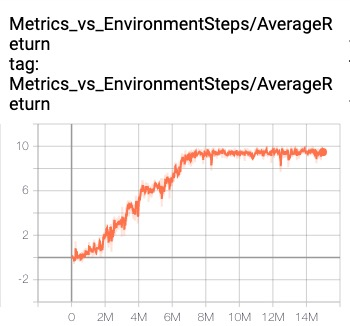
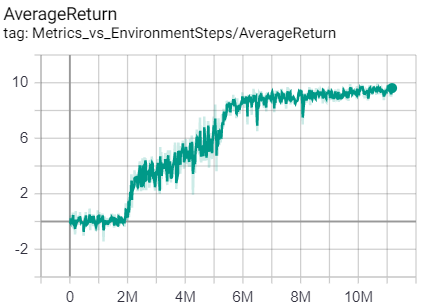
Update traing curve and video for merlin_dmlab_collect_good_objects

Changed region(s): [[0.0, 0.0, 1.0, 0.9967]]

diff --git a/alf/layers.py b/alf/layers.py
@@ -302,3 +302,114 @@ class Reshape(nn.Module):
 
     def forward(self, x):
         return x.reshape(x.shape[0], *self._shape)
+
+
+def _tuplify2d(x):
+    if isinstance(x, tuple):
+        assert len(x) == 2
+        return x
+    return (x, x)
+
+
+def _conv_transpose_2d(in_channels,
+                       out_channels,
+                       kernel_size,
+                       stride=1,
+                       padding=0):
+    # need output_padding so that output_size is stride * input_size
+    # See https://pytorch.org/docs/stable/nn.html#torch.nn.ConvTranspose2d
+    output_padding = stride + 2 * padding - kernel_size
+    return nn.ConvTranspose2d(
+        in_channels,
+        out_channels,
+        kernel_size,
+        stride=stride,
+        padding=padding,
+        output_padding=output_padding)
+
+
+@gin.configurable(whitelist=['v1_5', 'with_batch_normalization'])
+class BottleneckBlock(nn.Module):
+    """Bottleneck block for ResNet.
+
+    We allow two slightly different architectures:
+    * v1: Placing the stride at the first 1x1 convolution as described in the 
+      original ResNet paper `Deep residual learning for image recognition 
+      <https://arxiv.org/abs/1512.03385>`_.
+    * v1.5: Placing the stride for downsampling at 3x3 convolution. This variant
+      is also known as ResNet V1.5 and improves accuracy according to
+      `<https://ngc.nvidia.com/catalog/model-scripts/nvidia:resnet_50_v1_5_for_pytorch>`_.
+    """
+
+    def __init__(self,
+                 in_channels,
+                 kernel_size,
+                 filters,
+                 stride,
+                 transpose=False,
+                 v1_5=True,
+                 with_batch_normalization=True):
+        """
+        Args:
+            kernel_size (int): the kernel size of middle layer at main path
+            filters (int): the filters of 3 layer at main path
+            stride (int): stride for this block.
+            transpose (bool): a bool indicate using ``Conv2D`` or ``Conv2DTranspose``.
+                If two BottleneckBlock layers ``L`` and ``LT`` are constructed
+                with the same arguments except ``transpose``, it is gauranteed that 
+                ``LT(L(x)).shape == x.shape`` if ``x.shape[-2:]`` can be divided
+                by ``stride``.
+            v1_5 (bool): whether to use the ResNet V1.5 structure
+            with_batch_normalization (bool): whether to include batch normalization.
+                Note that standard ResNet uses batch normalization.
+        Return:
+            Output tensor for the block
+        """
+        super().__init__()
+        filters1, filters2, filters3 = filters
+
+        conv_fn = _conv_transpose_2d if transpose else nn.Conv2d
+
+        padding = (kernel_size - 1) // 2
+        if v1_5:
+            a = conv_fn(in_channels, filters1, 1)
+            b = conv_fn(filters1, filters2, kernel_size, stride, padding)
+        else:
+            a = conv_fn(in_channels, filters1, 1, stride)
+            b = conv_fn(filters1, filters2, kernel_size, 1, padding)
+
+        nn.init.kaiming_normal_(a.weight.data)
+        nn.init.zeros_(a.bias.data)
+        nn.init.kaiming_normal_(b.weight.data)
+        nn.init.zeros_(b.bias.data)
+
+        c = conv_fn(filters2, filters3, 1)
+        nn.init.kaiming_normal_(c.weight.data)
+        nn.init.zeros_(c.bias.data)
+
+        s = conv_fn(in_channels, filters3, 1, stride)
+        nn.init.kaiming_normal_(s.weight.data)
+        nn.init.zeros_(s.bias.data)
+
+        if with_batch_normalization:
+            core_layers = nn.Sequential(a, nn.BatchNorm2d(filters1),
+                                        nn.ReLU(), b, nn.BatchNorm2d(filters2),
+                                        nn.ReLU(), c, nn.BatchNorm2d(filters3))
+            shortcut_layers = nn.Sequential(s, nn.BatchNorm2d(filters3))
+        else:
+            core_layers = nn.Sequential(a, nn.ReLU(), b, nn.ReLU(), c)
+            shortcut_layers = s
+
+        self._core_layers = core_layers
+        self._shortcut_layers = shortcut_layers
+
+    def forward(self, inputs):
+        core = self._core_layers(inputs)
+        shortcut = self._shortcut_layers(inputs)
+
+        return nn.functional.relu(core + shortcut)
+
+    def calc_output_shape(self, input_shape):
+        x = torch.zeros(1, *input_shape)
+        y = self.forward(x)
+        return y.shape[1:]

diff --git a/alf/algorithms/merlin_algorithm.py b/alf/algorithms/merlin_algorithm.py
@@ -35,7 +35,7 @@ from alf.networks import EncodingNetwork, StackedLSTMCell
 from alf.networks import ActorDistributionNetwork, ValueNetwork
 from alf.networks.action_encoder import SimpleActionEncoder
 from alf.nest import flatten, map_structure
-from alf.utils import common, dist_utils, math_ops, resnet50_block
+from alf.utils import common, dist_utils, math_ops
 
 MBPState = namedtuple(
     "MBPState",
@@ -353,11 +353,13 @@ class MerlinAlgorithm(OnPolicyAlgorithm):
     Wayne et al "Unsupervised Predictive Memory in a Goal-Directed Agent" arXiv:1803.10760
 
     Current differences:
-    * no action encoding and decoding
-    * no retroactive memory update
-    * no prediction of state-action value
-    * value prediction does not use action distribution as feature
-    * no q-value prediction
+
+    * No action encoding and decoding
+    * No retroactive memory update
+    * No prediction of state-action value
+    * Value prediction does not use action distribution as feature.
+    * No q-value prediction
+    * Image encoding and decoding use batch-norm. The paper didn't use.
     """
 
     def __init__(self,
@@ -494,7 +496,7 @@ class ResnetEncodingNetwork(alf.networks.Network):
         in_channels = input_tensor_spec.shape[0]
         shape = input_tensor_spec.shape
         for stride in [2, 1, 2, 1, 2, 1]:
-            res_block = resnet50_block.BottleneckBlock(
+            res_block = alf.layers.BottleneckBlock(
                 in_channels=in_channels,
                 kernel_size=3,
                 filters=(64, 32, 64),
@@ -543,7 +545,7 @@ class ResnetDecodingNetwork(alf.networks.Network):
 
         for stride in reversed([2, 1, 2, 1, 2, 1]):
             dec_layers.append(
-                resnet50_block.BottleneckBlock(
+                alf.layers.BottleneckBlock(
                     in_channels=64,
                     kernel_size=3,
                     filters=(64, 32, 64),

diff --git a/alf/algorithms/algorithm.py b/alf/algorithms/algorithm.py
@@ -432,9 +432,21 @@ class Algorithm(nn.Module):
 
             local_metadata = {} if metadata is None else metadata.get(
                 prefix[:-1], {})
-            module._load_from_state_dict(state_dict, prefix, local_metadata,
-                                         True, missing_keys, unexpected_keys,
-                                         error_msgs, visited)
+            if type(module)._load_from_state_dict == type(
+                    self)._load_from_state_dict:
+                module._load_from_state_dict(
+                    state_dict, prefix, local_metadata, True, missing_keys,
+                    unexpected_keys, error_msgs, visited)
+            else:
+                # Some pytorch modules (e.g. BatchNorm layers) override
+                # _load_from_state_dict, which uses the original
+                # Module._load_from_state_dict. So we have to handle them
+                # differently. Not using `visited` should not cause a problem
+                # because those modules are not implemented by ALF and will have
+                # have cycle through them.
+                module._load_from_state_dict(
+                    state_dict, prefix, local_metadata, True, missing_keys,
+                    unexpected_keys, error_msgs)
 
         load(self)
 

diff --git a/alf/trainers/policy_trainer.py b/alf/trainers/policy_trainer.py
@@ -319,13 +319,14 @@ def play(root_dir,
     episode_length = 0
     episodes = 0
     while episodes < num_episodes:
-        time_step, policy_state = _step(
-            algorithm=algorithm,
-            env=env,
-            time_step=time_step,
-            policy_state=policy_state,
-            epsilon_greedy=epsilon_greedy,
-            metrics=[])
+        with torch.no_grad():
+            time_step, policy_state = _step(
+                algorithm=algorithm,
+                env=env,
+                time_step=time_step,
+                policy_state=policy_state,
+                epsilon_greedy=epsilon_greedy,
+                metrics=[])
         if recorder:
             recorder.capture_frame()
         else:
